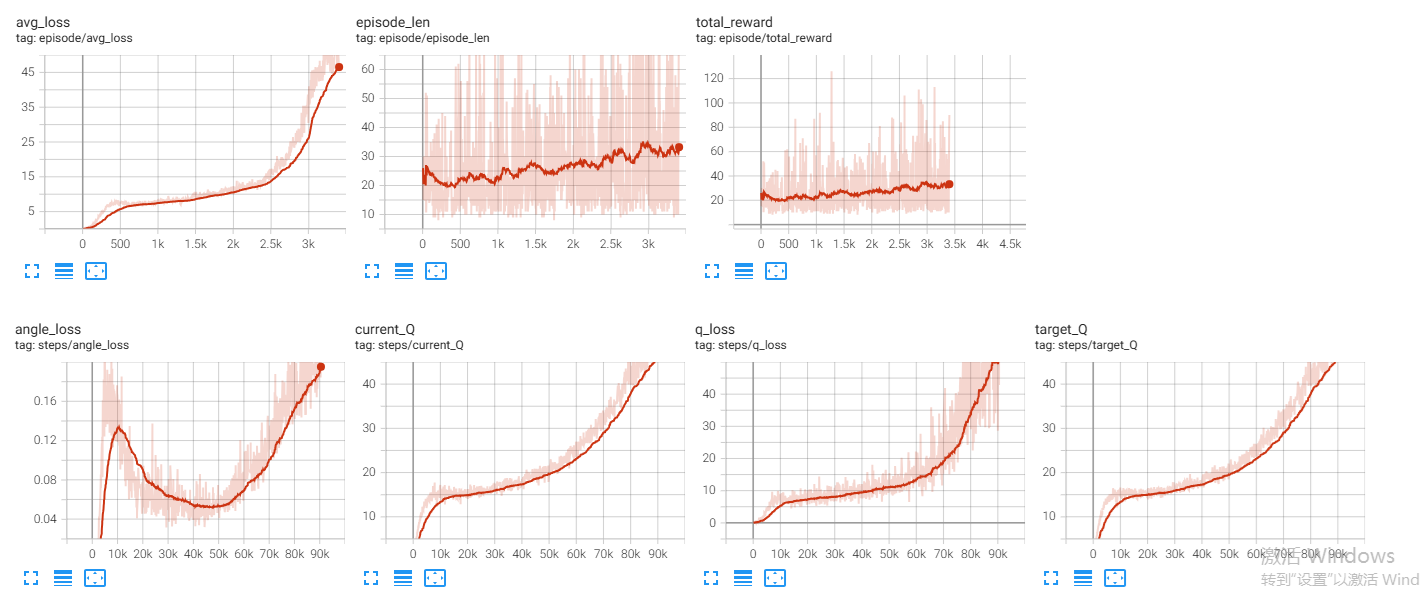
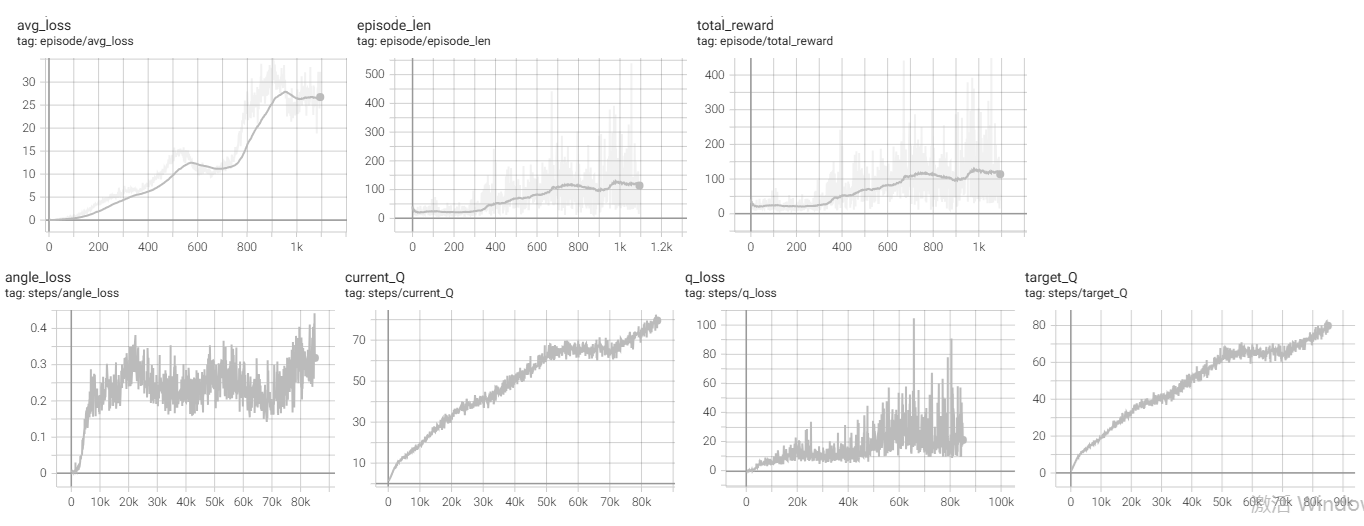
x

Changed region(s): [[0.0, 0.5171, 1.0, 1.0], [0.0, 0.0304, 0.739, 0.4867], [0.4927, 0.0304, 0.6158, 0.0913]]

diff --git a/强化学习入门.md b/强化学习入门.md
@@ -7926,7 +7926,9 @@ if __name__ == "__main__":
 
 ###### 改进一：提取竖杆倾斜的角度信息用于训练DQN网络识别角度
 
-结论：效果不好，回合reward和（total_reward） 上升缓慢、方差（波动）巨大、loss值一直在增大
+结论：效果不好，虽然回合reward上升，但方差大。
+
+而且evaluating发现虽然reward比较大，但实际上模型很取巧刷分，狂转圆圈。
 
 ![image-20250411123252350](img/RL/image-20250411123252350.png)
 
